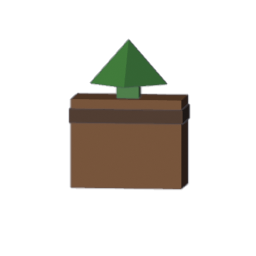
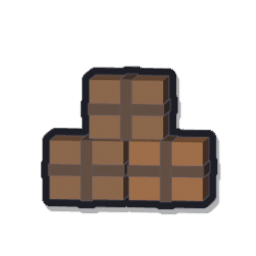
ART-010: iconos del HUD con contorno, sombra y formas nuevas (monedas, mochila, carga, robux original) — propuesta

Changed region(s): [[0.1562, 0.1562, 0.875, 0.8438]]

diff --git a/art/blender/scripts/iconos.py b/art/blender/scripts/iconos.py
@@ -1,9 +1,18 @@
 """
-iconos.py — renderiza los iconos del HUD (ART-004) como PNG de 256×256 con fondo transparente.
+iconos.py — renderiza los iconos del HUD (ART-004, retocados en ART-010) como PNG de 256×256 con fondo transparente.
 
     blender --background --factory-startup --python art/blender/scripts/iconos.py
 
 Salida: art/texturas/export/ico_*.png (para subir a Roblox y retocar en Krita).
+
+ART-010 (propuesta de estilo para Michael y Einell):
+- Contorno oscuro (color «negro» de la paleta) y sombra suave alrededor de cada icono,
+  para que se lean a 32-48 px sobre cualquier fondo del HUD.
+- Transformación de color «Standard» (antes AgX, que apagaba los colores de la paleta).
+- Formas nuevas para monedas (dos monedas de distinto tono con estrella), mochila
+  (tapa, hebilla, bolsillo y correas), carga (cajas apiladas) y robux (gema verde
+  original; el hexágono anterior se parecía al logotipo oficial).
+Las formas de modelos_prioridad3.ICONOS se reutilizan para el resto.
 """
 
 import math
@@ -11,12 +20,152 @@ import os
 import sys
 
 import bpy
+import numpy as np
 
 sys.path.insert(0, os.path.dirname(__file__))
 import arte_comun as A  # noqa: E402
 import modelos_prioridad3 as P3  # noqa: E402
 
 SALIDA = os.path.join(A.ART, "texturas", "export")
+FRENTE = P3.FRENTE
+
+# Contorno y sombra (en píxeles de la imagen de 256 px)
+GROSOR_CONTORNO = 7
+COLOR_CONTORNO = A._hex_rgb("1E1F26")  # «negro» de la paleta, en sRGB 0-1
+SOMBRA_DESPLAZAMIENTO = (3, 5)  # (x, y) hacia abajo a la derecha
+SOMBRA_OPACIDAD = 0.35
+
+
+# ---------------------------------------------------------------------------
+# Formas nuevas (ART-010). Frente hacia -Y, contornos 2D en (x, z).
+# ---------------------------------------------------------------------------
+
+
+def _estrella(radio_ext, radio_int, puntas=5):
+    puntos = []
+    for i in range(puntas * 2):
+        r = radio_ext if i % 2 == 0 else radio_int
+        a = math.pi / 2 + math.pi * i / puntas
+        puntos.append((math.cos(a) * r, math.sin(a) * r))
+    return puntos
+
+
+def icono_monedas():
+    # Moneda trasera en bronce y delantera en dorado: dos tonos para que no se fundan
+    piezas = [
+        A.cilindro("moneda_atras", 1.0, 0.3, (-0.6, 0.35, 0.5), "bronce", lados=16, rot=FRENTE),
+        A.anillo("canto_atras", 0.72, 0.08, (-0.6, 0.15, 0.5), "madera", lados=16, rot=FRENTE),
+        A.cilindro("moneda", 1.2, 0.35, (0.35, 0, -0.3), "dorado", lados=18, rot=FRENTE),
+        A.anillo("canto", 0.9, 0.1, (0.35, -0.2, -0.3), "bronce", lados=18, rot=FRENTE),
+    ]
+    estrella = A.prisma_poligono("estrella", _estrella(0.55, 0.24), 0.2, (0.35, -0.22, -0.3), "bronce")
+    piezas.append(estrella)
+    return piezas
+
+
+def icono_mochila():
+    return [
+        A.caja("correa_izq", (0.25, 0.5, 2.0), (-1.1, 0.15, -0.15), "madera_oscura"),
+        A.caja("correa_der", (0.25, 0.5, 2.0), (1.1, 0.15, -0.15), "madera_oscura"),
+        A.caja("cuerpo", (2.0, 1.0, 2.3), (0, 0, -0.15), "naranja"),
+        A.caja("tapa", (2.1, 1.1, 0.85), (0, -0.03, 0.75), "bronce"),
+        A.caja("cierre", (0.3, 0.2, 0.55), (0, -0.62, 0.35), "madera_oscura"),
+        A.caja("hebilla", (0.45, 0.25, 0.3), (0, -0.66, 0.2), "dorado"),
+        A.caja("bolsillo", (1.3, 0.35, 0.8), (0, -0.6, -0.75), "bronce"),
+        A.anillo("asa", 0.42, 0.12, (0, 0, 1.4), "madera_oscura", lados=10, rot=FRENTE),
+    ]
+
+
+def _caja_carga(nombre, pos, color):
+    x, y, z = pos
+    return [
+        A.caja(nombre, (1.45, 1.0, 1.15), pos, color),
+        A.caja(nombre + "_fleje", (1.5, 1.05, 0.22), (x, y, z), "madera_oscura"),
+        A.caja(nombre + "_liston", (0.22, 1.05, 1.2), (x, y - 0.01, z), "madera_oscura"),
+    ]
+
+
+def icono_carga():
+    # Cajas apiladas: «cuántos objetos llevas por viaje»
+    return (_caja_carga("caja_izq", (-0.78, 0, -0.85), "madera")
+            + _caja_carga("caja_der", (0.78, 0, -0.85), "bronce")
+            + _caja_carga("caja_arriba", (0, 0, 0.35), "madera"))
+
+
+def icono_robux():
+    # Gema verde tallada (dibujo original, no el logotipo oficial)
+    contorno = [(0, -1.45), (1.25, 0.35), (0.7, 1.1), (-0.7, 1.1), (-1.25, 0.35)]
+    mesa = [(0, -0.55), (0.6, 0.35), (0.35, 0.8), (-0.35, 0.8), (-0.6, 0.35)]
+    brillo = [(-0.5, 0.45), (-0.3, 0.72), (-0.05, 0.72), (-0.3, 0.45)]
+    return [
+        A.prisma_poligono("gema", contorno, 0.4, (0, 0, 0), "verde"),
+        A.prisma_poligono("mesa", mesa, 0.45, (0, -0.03, 0), "verde_oscuro"),
+        A.prisma_poligono("brillo", brillo, 0.5, (0, -0.06, 0), "cian"),
+    ]
+
+
+ICONOS = dict(P3.ICONOS)
+ICONOS.update({
+    "ico_monedas": icono_monedas,
+    "ico_mochila": icono_mochila,
+    "ico_carga": icono_carga,
+    "ico_robux": icono_robux,
+})
+
+
+# ---------------------------------------------------------------------------
+# Render y contorno
+# ---------------------------------------------------------------------------
+
+
+def _dilatar(alfa, radio):
+    """Máximo de la transparencia en un disco de `radio` píxeles."""
+    alto, ancho = alfa.shape
+    relleno = np.pad(alfa, radio)
+    salida = np.zeros_like(alfa)
+    for dy in range(-radio, radio + 1):
+        for dx in range(-radio, radio + 1):
+            if dx * dx + dy * dy <= radio * radio + radio:
+                trozo = relleno[radio + dy:radio + dy + alto, radio + dx:radio + dx + ancho]
+                np.maximum(salida, trozo, out=salida)
+    return salida
+
+
+def _desplazar(alfa, dx, dy):
+    """Desplaza la máscara dx píxeles a la derecha y dy hacia abajo (la imagen de Blender empieza abajo)."""
+    salida = np.zeros_like(alfa)
+    alto, ancho = alfa.shape
+    salida[0:alto - dy, dx:ancho] = alfa[dy:alto, 0:ancho - dx]
+    return salida
+
+
+def _sobre(arriba_rgb, arriba_a, abajo_rgb, abajo_a):
+    """Composición «over» con transparencia no premultiplicada."""
+    a = arriba_a + abajo_a * (1 - arriba_a)
+    seguro = np.where(a > 0, a, 1)
+    rgb = (arriba_rgb * arriba_a[..., None] + abajo_rgb * (abajo_a * (1 - arriba_a))[..., None]) / seguro[..., None]
+    return rgb, a
+
+
+def contornear(ruta):
+    imagen = bpy.data.images.load(ruta)
+    ancho, alto = imagen.size
+    px = np.array(imagen.pixels[:], dtype=np.float32).reshape(alto, ancho, 4)
+    rgb, alfa = px[..., :3], px[..., 3]
+
+    borde = np.clip(_dilatar(alfa, GROSOR_CONTORNO), 0, 1)
+    color_borde = np.broadcast_to(np.array(COLOR_CONTORNO, dtype=np.float32), rgb.shape)
+    rgb, a = _sobre(rgb, alfa, color_borde, borde)
+
+    sombra = _desplazar(borde, *SOMBRA_DESPLAZAMIENTO) * SOMBRA_OPACIDAD
+    rgb, a = _sobre(rgb, a, color_borde, sombra)
+
+    px[..., :3], px[..., 3] = rgb, a
+    imagen.pixels = px.ravel().tolist()
+    imagen.filepath_raw = ruta
+    imagen.file_format = "PNG"
+    imagen.save()
+    bpy.data.images.remove(imagen)
 
 
 def render_icono(nombre, constructor):
@@ -28,22 +177,26 @@ def render_icono(nombre, constructor):
     bpy.ops.object.camera_add(location=(1.2, -10, 1.0), rotation=(math.radians(84), 0, math.radians(7)))
     camara = bpy.context.active_object
     camara.data.type = "ORTHO"
-    camara.data.ortho_scale = 4.6
+    camara.data.ortho_scale = 5.0  # margen para el contorno
     escena.camera = camara
     escena.render.engine = "BLENDER_WORKBENCH"
     escena.display.shading.color_type = "TEXTURE"
     escena.display.shading.light = "STUDIO"
     escena.display.shading.show_object_outline = True
     escena.display.shading.object_outline_color = (0.08, 0.08, 0.1)
+    escena.view_settings.view_transform = "Standard"
+    escena.view_settings.exposure = 0.45
     escena.render.resolution_x = 256
     escena.render.resolution_y = 256
     escena.render.film_transparent = True
     escena.render.image_settings.color_mode = "RGBA"
     os.makedirs(SALIDA, exist_ok=True)
-    escena.render.filepath = os.path.join(SALIDA, nombre + ".png")
+    ruta = os.path.join(SALIDA, nombre + ".png")
+    escena.render.filepath = ruta
     bpy.ops.render.render(write_still=True)
+    contornear(ruta)
     print("icono ->", nombre)
 
 
-for nombre, constructor in P3.ICONOS.items():
+for nombre, constructor in ICONOS.items():
     render_icono(nombre, constructor)
